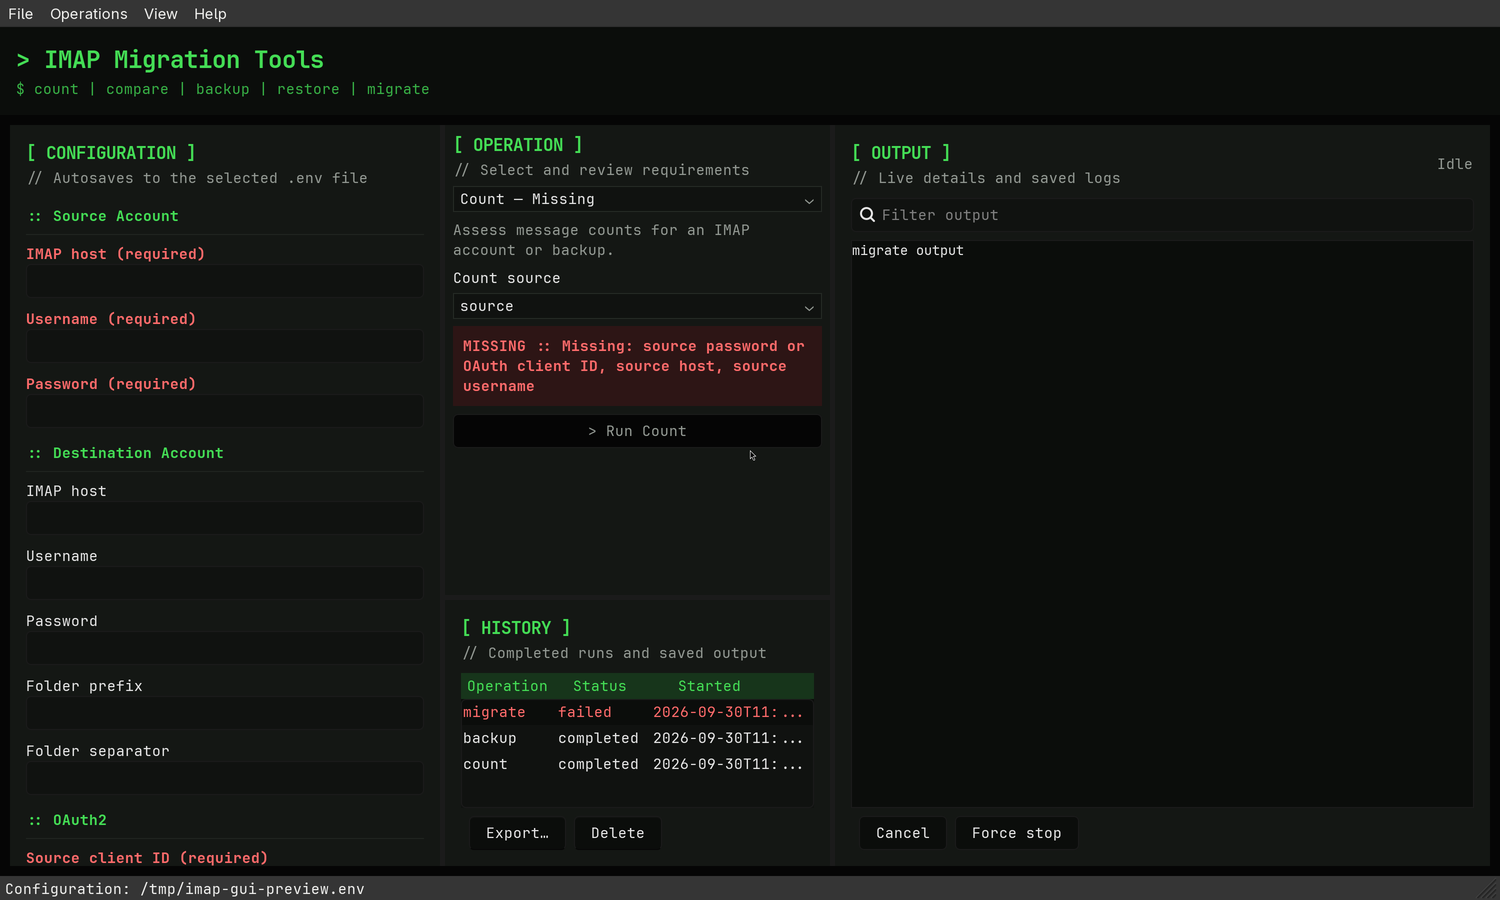
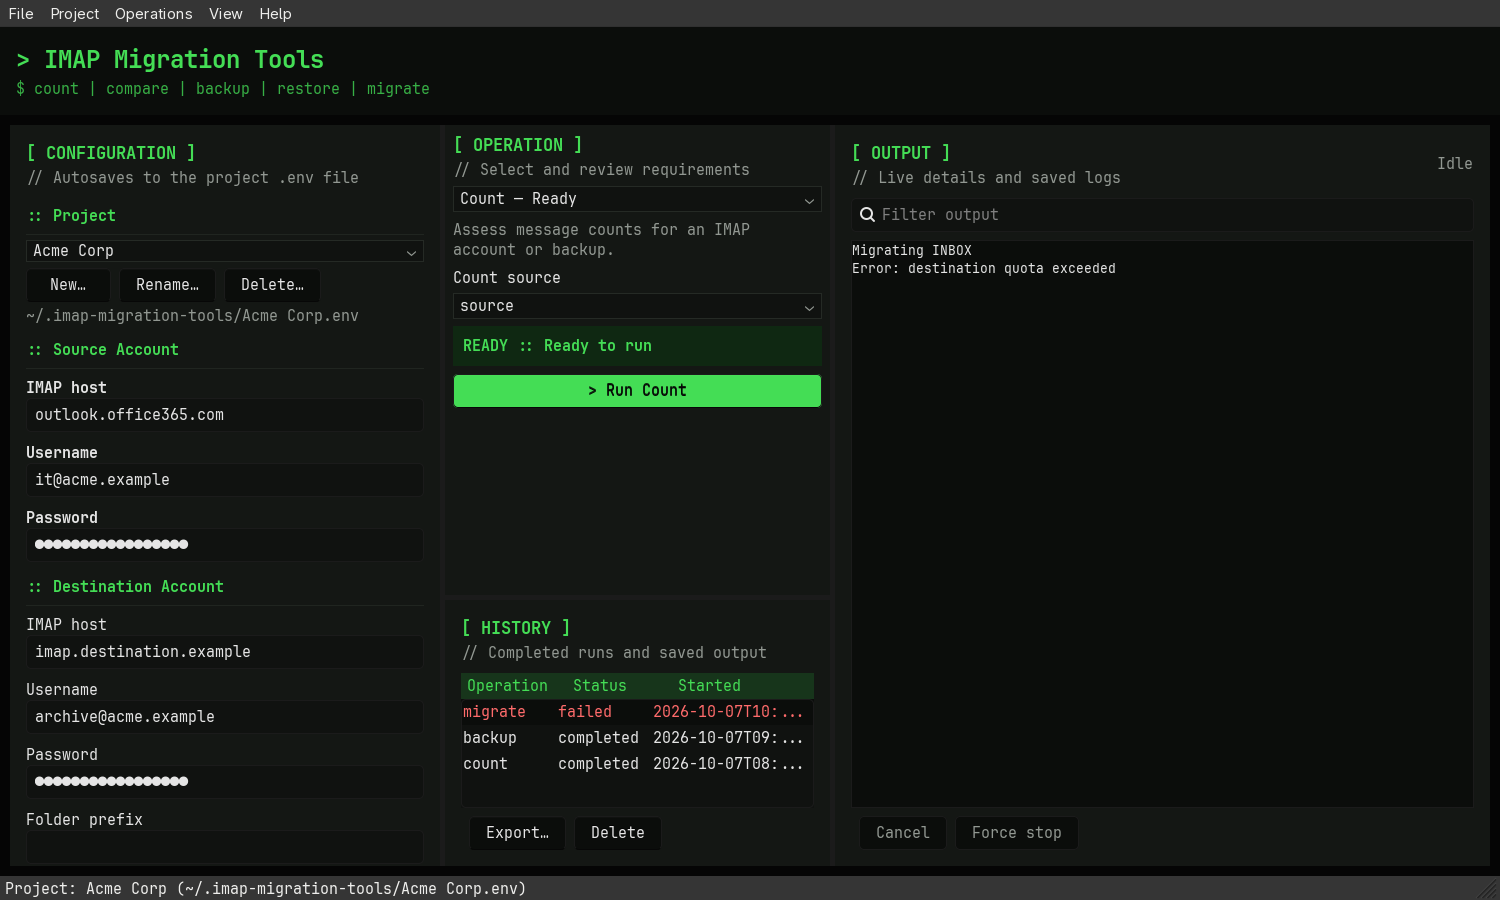
Refresh desktop and terminal screenshots for projects
Regenerate the Linux and Windows light and dark GUI overviews and the
TUI overview from the current code with disposable sample data, so they
show the Project selector, project menu, per-project History, and the
themed layout. The TUI image now links to the branch copy instead of the
absolute main-branch URL.

diff --git a/README.md b/README.md
@@ -165,7 +165,7 @@ The interface provides a guided autosaving `.env` form, operation readiness guid
 local run history.
 
 <p align="left">
-  <img src="https://raw.githubusercontent.com/JCallico/imap-migration-tools/main/docs/images/tui-overview.jpg" width="800" alt="IMAP Migration Tools TUI showing Configuration, Tools, Operation, History, and Output panels">
+  <img src="docs/images/tui-overview.jpg" width="800" alt="IMAP Migration Tools TUI showing Configuration, Tools, Operation, History, and Output panels">
 </p>
 
 Review the generated command in the Output panel and verify backups and counts before enabling destructive options.
